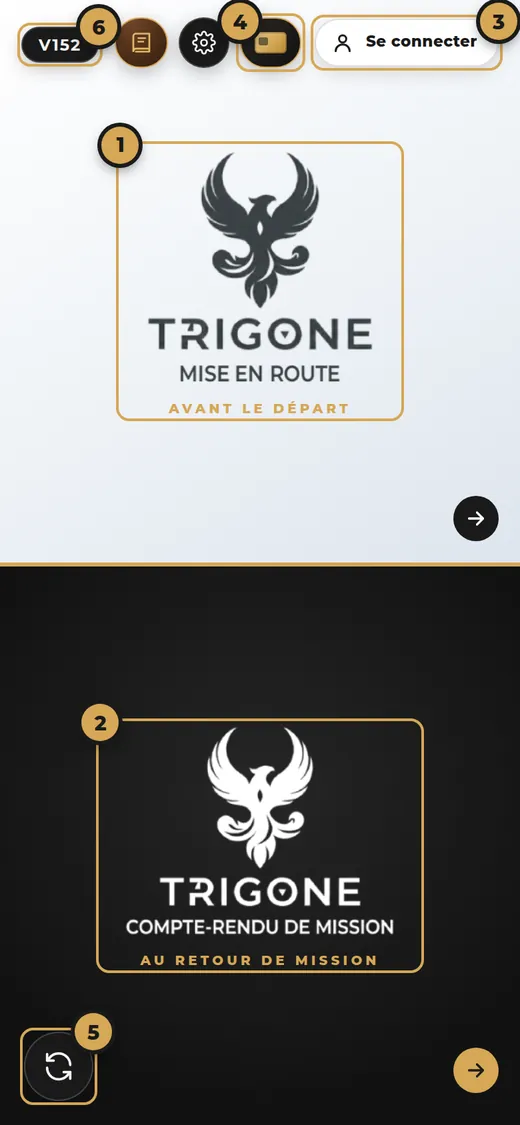
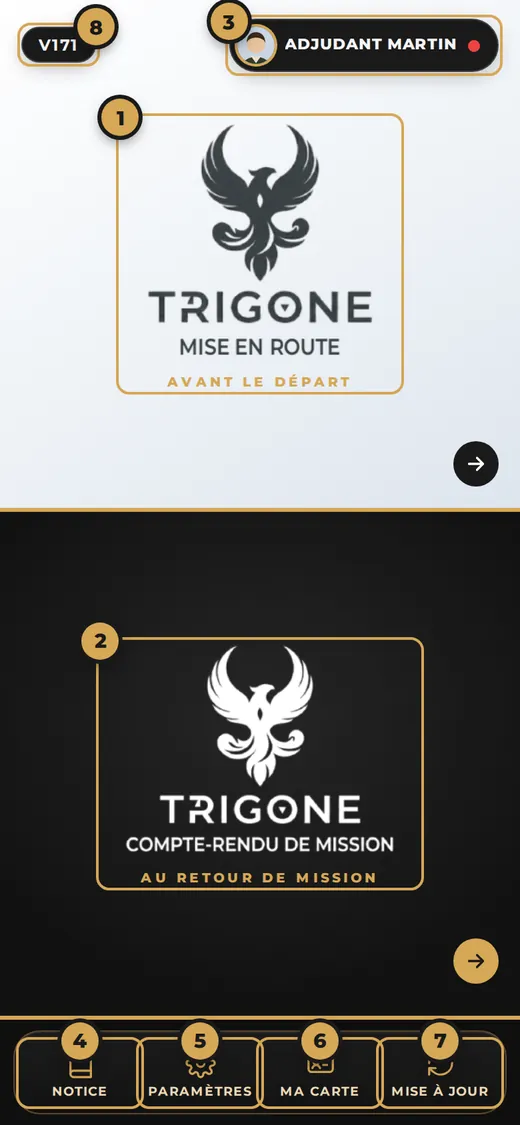
V172 : notice à jour (barre du bas, photo, hors réseau, médailles, relance) et légende des captures (#234)
Claude-Session: https://claude.ai/code/session_01NStkfCttCkWn8HaycQvLWX

diff --git a/notice/notice.js b/notice/notice.js
@@ -4,9 +4,10 @@
 // appli avec des personnages fictifs (notice/img), repères dorés ① ② ③ repris dans le texte.
 // {B} : chemin de la racine de TRIGONE (« ../ » depuis Compte-rendu).
 (function() {
-    var VERSION = 171;
+    var VERSION = 172;
     // Capture : un bouton, pour que le toucher l'agrandisse au lieu de tourner la page.
-    function img(n) { return '<button type="button" class="n-capt" data-zoom="{B}notice/img/' + n + '.webp" aria-label="Agrandir la capture"><img src="{B}notice/img/' + n + '.webp" alt=""><i>⤢</i></button>'; }
+    var TEL_SVG = '<svg viewBox="0 0 24 24" aria-hidden="true"><rect x="6.5" y="2.5" width="11" height="19" rx="2.5"/><path d="M11 18.5h2"/></svg>';
+    function img(n) { return '<button type="button" class="n-capt" data-zoom="{B}notice/img/' + n + '.webp" aria-label="Agrandir la capture"><img src="{B}notice/img/' + n + '.webp" alt=""><i>⤢</i><span class="n-leg">' + TEL_SVG + (n === 'c3-carte-grand' ? 'Téléphone à l\'horizontale · Android / iPhone' : 'Téléphone · Android / iPhone') + '</span></button>'; }
     function r(n) { return '<span class="n-r">' + n + '</span>'; }
     function et(l) { return '<ol class="n-et">' + l.map(function(x) { return '<li>' + x + '</li>'; }).join('') + '</ol>'; }
     function savoir(t) { return '<div class="n-enc n-savoir"><b>À SAVOIR</b>' + t + '</div>'; }
@@ -56,11 +57,11 @@
         '<h5>Sur PC (Chrome ou Edge)</h5>' + et(['Ouvrez l\'adresse, puis cliquez sur l\'icône <b>Installer</b> à droite de la barre d\'adresse.']) +
         astuce('Paramètres › Aide › <b>Partager TRIGONE</b> affiche un QR code : un collègue le scanne pour installer TRIGONE à son tour.'), 'inst'));
     ajouter(page('L\'écran d\'accueil', duo('01-choix', et([r(1) + ' <b>Mise en route</b> : toucher pour faire une demande avant le départ.', r(2) + ' <b>Compte-rendu de mission</b> : toucher pour démarrer ou reprendre une mission.',
-        r(3) + ' <b>Mon compte</b> : se connecter, Paramètres, se déconnecter.', r(4) + ' <b>Ma carte TRIGONE</b> : accès direct à votre carte. À côté : la <b>roue ⚙</b> (Paramètres) et le bouton <b>Notice</b> (ce livret).', r(5) + ' <b>Mise à jour</b> : vérifier qu\'une nouvelle version est disponible.', r(6) + ' <b>Numéro de version</b> de TRIGONE.'])) +
-        savoir('Un assistant Chorus DT voit en plus un 3<sup>e</sup> espace, <b>ASSIST CHORUS-DT</b> (chapitre 10).'), 'inst'));
+        r(3) + ' <b>Mon compte</b> : votre <b>photo</b> (celle de Ma carte, sinon vos initiales) ; se connecter, Paramètres, se déconnecter.', 'Barre du bas : ' + r(4) + ' <b>Notice</b> (ce livret), ' + r(5) + ' <b>Paramètres</b>, ' + r(6) + ' <b>Ma carte</b>, ' + r(7) + ' <b>Mise à jour</b>.', r(8) + ' <b>Numéro de version</b> de TRIGONE.'])) +
+        savoir('Sur un grand écran tactile (tablette, pliable ouvert), la barre a un 5<sup>e</sup> bouton : <b>Affichage PC</b>. Sur PC, ces boutons sont en haut à droite. Un assistant Chorus DT voit en plus un 3<sup>e</sup> espace, <b>ASSIST CHORUS-DT</b> (chapitre 10).'), 'inst'));
     ajouter(page('Mises à jour, thème et PC', '<h5>Mises à jour</h5><p>TRIGONE se met à jour <b>tout seul</b> à l\'ouverture. Une notification « Nouveautés » présente les changements. Le bouton ↻ de l\'écran d\'accueil force la vérification.</p>' +
         '<h5>Clair ou sombre</h5><p>Le bouton <b>☾ / ☀</b> en haut à droite des applis passe du thème clair au thème sombre.</p>' +
-        '<h5>Sur PC</h5><p>Sur un ordinateur, TRIGONE s\'affiche en grand : menu à gauche, formulaires en colonnes. Sur une tablette ou un téléphone pliant ouvert, le bouton <b>écran</b> (à côté du compte) bascule l\'affichage PC.</p>' +
+        '<h5>Sur PC</h5><p>Sur un ordinateur, TRIGONE s\'affiche en grand : menu à gauche, formulaires en colonnes. Sur une tablette ou un téléphone pliant ouvert, le bouton <b>Affichage PC</b> de la barre du bas (page de garde et accueil des applis) bascule l\'affichage PC ; le même bouton ramène l\'affichage téléphone.</p>' +
         '<h5>Démonstration</h5><p>Chaque appli propose <b>« Voir une démonstration »</b> : une visite guidée, sans rien envoyer.</p>' +
         attention('Ouvrez toujours TRIGONE depuis l\'<b>icône installée</b> : vos données sont rangées dans l\'appli de ce téléphone, pas dans un onglet du navigateur.'), 'inst'));
 
@@ -95,14 +96,14 @@
     // ---------- 5. Paramètres ----------
     ajouter(chapitre(5, 'Les Paramètres', 'Toutes les options de TRIGONE sont rangées dans une seule page, par rubriques : Compte, Notifications, réglages de l\'appli, Données et Aide.',
         ['Ouvrir les Paramètres', 'Les rubriques', 'Montre connectée'], 'param'));
-    ajouter(page('Ouvrir les Paramètres', duo('10-parametres-compte', et(['Touchez la <b>pastille de votre compte</b> (vos initiales) puis <b>Paramètres</b>.', r(1) + ' Choisissez une <b>rubrique</b> en haut.', '<b>Compte</b> : ' + r(2) + ' Ma carte TRIGONE, ' + r(3) + ' Mon profil, ' + r(4) + ' Mes rôles, Absence, Ajouter un appareil.', '<b>Notifications</b> : activer, couper sur cet appareil, tester, montre connectée.'])), 'param'));
+    ajouter(page('Ouvrir les Paramètres', duo('10-parametres-compte', et(['Touchez la <b>pastille de votre compte</b> (votre photo ou vos initiales) puis <b>Paramètres</b> (ou le bouton <b>Paramètres</b> de la barre du bas).', r(1) + ' Choisissez une <b>rubrique</b> en haut.', '<b>Compte</b> : ' + r(2) + ' Ma carte TRIGONE, ' + r(3) + ' Mon profil, ' + r(4) + ' Mes rôles, Absence, Ajouter un appareil.', '<b>Notifications</b> : activer, couper sur cet appareil, tester, montre connectée.'])), 'param'));
     ajouter(page('Les autres rubriques', duo('11-parametres-donnees', et(['<b>Compte-rendu</b> (dans l\'appli Compte-rendu) : réglages du compte-rendu (rappels, envoi, barèmes, étranger).', '<b>Données</b> : sauvegarde automatique, restaurer depuis le compte, sauvegarder ou restaurer un fichier, se déconnecter et effacer, réinitialiser TRIGONE.', '<b>Aide</b> : cette notice, Références, Mise à jour, Découvrir TRIGONE, Partager TRIGONE, <b>Signaler un problème</b>.', 'Accès direct : la <b>roue ⚙</b> de l\'écran d\'accueil ouvre les Paramètres ; le bouton <b>Notice</b> (livre) ouvre cette notice.'])) +
         attention('« Réinitialiser TRIGONE » et « Se déconnecter et effacer » suppriment <b>toutes</b> les données de l\'appareil. Faites d\'abord une sauvegarde.'), 'param'));
     ajouter(page('Montre connectée', duo('82-montre', et(['Paramètres › Notifications › <b>Montre connectée</b> (pastille verte = prête, rouge = pas prête).', 'Activez les notifications de TRIGONE sur le téléphone.', 'Dans l\'appli de la montre (ex. Galaxy Wearable › Notifications), autorisez <b>Chrome</b> et TRIGONE.', 'Pendant une mission, la notification « Mission en cours » arrive sur la montre avec le bouton de l\'étape suivante : <b>un appui horodate</b>, même sans réseau.'])), 'param'));
 
     // ---------- 6. Carte TRIGONE ----------
     ajouter(chapitre(6, 'Ma carte TRIGONE', 'Votre carte d\'identité TRIGONE, au format carte bancaire, remplie avec Mon profil. Son QR code permet aux autres comptes TRIGONE de vous ajouter en un geste.',
-        ['Ouvrir, retourner, afficher en grand', 'La photo', 'Le QR code et ses usages', 'Carte perdue ou volée', 'Partager sa photo, onglet Participants'], 'carte'));
+        ['Ouvrir, retourner, afficher en grand', 'La photo', 'Le QR code et ses usages', 'Carte perdue ou volée', 'Partager sa photo, onglet Participants', 'Votre photo dans TRIGONE'], 'carte'));
     ajouter(page('La carte', duo('c1-carte-recto', et(['Ouvrez la carte : bouton doré <b>« Ma carte »</b> de l\'écran d\'accueil, <b>appui long</b> sur l\'icône TRIGONE › Ma carte, ou Paramètres › Compte.', '<b>Recto</b> : photo, nom, grade, NID, unité, nombre de missions, hologramme qui bouge avec le téléphone.', '<b>Touchez la carte</b> pour la retourner.', '<b>Changer la photo</b> : appareil photo ou galerie, puis cadrez au doigt. La photo reste sur le téléphone.'])) +
         savoir('Le liseré évolue avec vos comptes-rendus envoyés : <b>bronze</b> (1), <b>argent</b> (10), <b>or</b> (20).'), 'carte'));
     ajouter(page('Le verso et le QR code', duo('c2-carte-verso', et(['<b>Verso</b> : QR code, rôles, « Compte vérifié depuis le… », signature.', '<b>Afficher en grand</b> : le téléphone passe à l\'horizontale et devient la carte (écran maintenu allumé). Touchez pour retourner, ✕ pour fermer.', '<b>Partager</b> : la carte (recto + verso) en image.'])) +
@@ -112,9 +113,11 @@
     ajouter(page('Partager sa photo', duo('c7-carte-partage', et([r(1) + ' Ma carte › case <b>« Partager ma photo avec les valideurs et l\'assistant Chorus DT »</b>.', 'Votre photo apparaît alors dans l\'onglet <b>Participants</b> de vos demandes : VALIDEUR 1 et 2, assistants Chorus DT, chef d\'une mission collective, et <b>vos autres appareils</b> (PC).', 'Elle est <b>chiffrée sur votre téléphone</b> : le serveur ne garde qu\'un bloc illisible. Décochez : elle est retirée.', r(2) + ' Votre <b>adresse des justificatifs</b> (prénom.nom@trigone-app.com), avec <b>Copier</b>.'])) +
         savoir('Sans partage, votre carte s\'affiche avec vos <b>initiales</b> ; elle reste « vérifiée ».'), 'carte'));
     ajouter(page('L\'onglet Participants', duo('c8-participants', et(['Bouton <b>👥 Participants</b> : Espace valideur, contrôle des demandes et <b>registre</b> (Chorus DT), <b>Bibliothèque</b> (chef de mission).', r(1) + ' Une <b>carte TRIGONE par personne</b> : chef de mission, puis les participants.', r(2) + ' <b>✔ Carte TRIGONE vérifiée</b> par le serveur, photo chiffrée si partagée. <b>✖ Pas de carte vérifiée</b> : identité à contrôler.', r(3) + ' Onglet <b>Demande</b> : objet, dates, destination, code FD. Touchez une carte : <b>en grand</b>.'])), 'carte'));
+    ajouter(page('Votre photo dans TRIGONE', duo('c9-photo-compte', et(['La photo de Ma carte apparaît aussi :', r(1) + ' dans la <b>pastille de votre compte</b>, en haut de l\'écran, à la place de vos initiales ;', r(2) + ' en plus grand dans le <b>menu du compte</b> et en tête des <b>Paramètres</b>.', 'Changez ou retirez la photo dans Ma carte : la pastille suit aussitôt. Sans photo, vos initiales restent.'])) +
+        savoir('La photo reste <b>sur l\'appareil</b> : elle n\'est envoyée qu\'aux personnes autorisées de vos missions, si vous avez coché « Partager ma photo ».'), 'carte'));
     ajouter(chapitre(7, 'Faire une demande de mise en route', 'La demande d\'ordre de mise en route (DOMR) se remplit en 5 onglets. Chaque onglet est vérifié avant de passer au suivant : une demande complète est une demande validée plus vite.',
         ['Nouvelle demande : identité et personnes', 'Trajet aller et trajet retour', 'Alimentation, hébergement, réservation', 'Imputation, avance et pièces jointes'], 'mer'));
-    ajouter(page('Nouvelle demande', duo('20-mer-accueil', et(['Ouvrez <b>Mise en route</b> depuis l\'écran d\'accueil.', r(1) + ' Touchez <b>Nouvelle demande</b>.', r(2) + ' <b>Boîte de réception</b> : refus, questions, missions collectives reçues (la pastille rouge compte ce qui est à traiter).', r(3) + ' <b>Biblio</b> : le suivi de vos demandes envoyées. ' + r(4) + ' <b>Docs</b> : vos demandes à envoyer.'])), 'mer'));
+    ajouter(page('Nouvelle demande', duo('20-mer-accueil', et(['Ouvrez <b>Mise en route</b> depuis l\'écran d\'accueil.', r(1) + ' Touchez <b>Nouvelle demande</b>.', r(2) + ' <b>Boîte de réception</b> : refus, questions, missions collectives reçues (la pastille rouge compte ce qui est à traiter).', 'Barre du bas : ' + r(3) + ' <b>Biblio</b> (suivi de vos demandes envoyées), ' + r(4) + ' <b>Docs</b> (demandes à envoyer), ' + r(5) + ' <b>Ma carte</b>, ' + r(6) + ' <b>Notice</b>.', r(7) + ' Votre <b>compte</b> (photo).'])), 'mer'));
     ajouter(page('Onglet 1 — Identité', duo('21-demande-identite', et(['Les 5 onglets en haut : <b>Identité, Aller, Retour, Alim./Héb., Imputation</b>. Un ✓ vert = onglet complet.', r(1) + ' Choisissez <b>Mission</b> ou <b>Formation / stage</b>.', r(2) + ' Saisissez l\'<b>objet</b> de la mission.', r(3) + ' <b>Personnel concerné</b> : votre identité est déjà remplie depuis Mon profil.'])), 'mer'));
     ajouter(page('Demande collective', duo('21b-demande-personnes', et(['Pour plusieurs personnes (une seule demande, un OMR collectif) :', r(1) + ' <b>Ajouter une personne</b> et la remplir,', r(2) + ' ou <b>Scanner des cartes TRIGONE</b> : chaque carte scannée ajoute la personne,', r(3) + ' ou <b>Importer une liste</b> Excel, Calc ou CSV (colonnes UNITÉ · CIE · GRADE · NOM · PRÉNOM · NID). « Télécharger le modèle » donne le tableau à remplir.', 'Touchez <b>Étape suivante</b>.'])) +
         savoir('Dans une demande collective, le demandeur est <b>chef de mission</b> : au retour, il envoie le compte-rendu prérempli à chaque participant.'), 'mer'));
@@ -151,12 +154,14 @@
 
     // ---------- 10. Assistant Chorus DT ----------
     ajouter(chapitre(10, 'Assistant Chorus DT', 'L\'assistant Chorus DT reçoit les demandes validées par les deux valideurs et les comptes-rendus de mission. Il tient le registre des OMR, commun à tous les assistants de l\'unité.',
-        ['Mon espace', 'Demandes validées : contrôle et PDF', 'Comptes-rendus reçus', 'Registre des OMR', 'Registre : collectif, international, montants'], 'chorus'));
+        ['Mon espace', 'Demandes validées : contrôle et PDF', 'Comptes-rendus reçus', 'Registre des OMR', 'Relancer les retards', 'Registre : collectif, international, montants'], 'chorus'));
     ajouter(page('Mon espace', duo('40-chorus-choix', et(['Avec le rôle ASSIST CHORUS DT, l\'écran d\'accueil montre un 3<sup>e</sup> espace : ' + r(1) + ' <b>ASSIST CHORUS-DT</b>.', '<b>Mon espace</b> indique le nombre de demandes validées à traiter et de comptes-rendus reçus.', 'Touchez le logo pour ouvrir l\'espace.'])), 'chorus'));
     ajouter(page('L\'espace Chorus DT', duo('41-chorus-espace', et(['<b>Registre des OMR</b> : toutes les missions de l\'unité et où elles en sont.', r(1) + ' <b>Demandes de mise en route</b> : validées par les deux valideurs.', '<b>Comptes-rendus de mission</b> : envoyés au retour de mission.', '<b>Relever maintenant</b> : chercher tout de suite les nouveaux envois.'])), 'chorus'));
     ajouter(page('Traiter une demande', duo('42-chorus-dossier', et(['<b>Aperçu</b> : relire la demande.', '<b>Télécharger le PDF</b> : TRIGONE vérifie d\'abord les signatures et les pièces jointes, puis produit le PDF final (demande signée + NDS / DAF).', '<b>Contrôle détaillé</b> : le détail de la vérification.', '<b>Question</b> : demander une précision au missionnaire.', 'Créez l\'ordre de mission dans Chorus DT, puis marquez la demande <b>Traitée</b> : le missionnaire est prévenu.'])), 'chorus'));
     ajouter(page('Registre des OMR', duo('43-registre', et(['Un seul tableau : <b>toutes les missions</b> de l\'unité, dans l\'ordre des n° OMR, avec des filtres d\'étape (À venir, En cours, CR attendu, En retard, CR rendus).', r(1) + ' <b>⛶ Plein écran</b> : le tableau sur tout l\'écran.', r(2) + ' <b>Rechercher</b> (n° OMR, objet, nom, code FD), codes FD <b>de votre unité</b> ou non, <b>période</b>. Code FD <b style="color:#15803d">vert</b> : votre unité ; <b style="color:#a16207">jaune</b> : une autre.', r(3) + ' La <b>frise</b> : demande validée → départ → sur site → retour → <b>CR rendu</b>, avec les <b>heures réelles</b> quand le missionnaire horodate dans Compte-rendu (sinon, les dates prévues).', r(4) + ' <b>Relancer pour le CR</b> : un rappel dans la boîte du missionnaire.'])) +
         savoir('Le registre est <b>commun à tous les assistants Chorus DT de l\'unité</b> et se met à jour <b>tout seul toutes les 30 s</b> : chacun voit la même chose, avec « reçu par ».'), 'chorus'));
+    ajouter(page('Relancer les retards', duo('45-relance-groupee', et(['En haut du registre, dès qu\'un compte-rendu est en retard : ' + r(1) + ' le nombre de <b>comptes-rendus en retard</b> (et ceux déjà relancés aujourd\'hui).', r(2) + ' <b>Relancer les N en retard</b> : une seule confirmation, chacun reçoit son rappel dans sa boîte TRIGONE, avec une notification.', 'Ceux relancés depuis moins de 24 h sont sautés ; « Tous relancés » quand il n\'y a plus personne à relancer.'])) +
+        savoir('<b>Un registre par régiment</b> : chaque unité (celle de Mon profil) a son propre registre et sa propre numérotation OMR. Les assistants d\'un autre régiment ne voient pas le vôtre.'), 'chorus'));
     ajouter(page('Registre : collectif, international, montants', duo('44-registre-collectif', et(['À côté du n° OMR : <b>INDIVIDUEL</b>, <b>COLLECTIF · n</b> et ' + r(1) + ' <b>🌍 INTERNATIONAL</b> avec le pays.', r(2) + ' En direct : <b>départ, arrivée sur site, retour</b> à l\'heure près, dès que le missionnaire appuie dans Compte-rendu (« Sur site depuis… », « Rentré le… »).', r(3) + ' Mission collective : le <b>personnel</b>, un nom par ligne.', r(4) + ' <b>✏ Corriger les montants</b> : la correction vaut pour tous les assistants ; montant corrigé en doré, total recalculé.', 'En bas : <b>total par rubrique</b> (repas, hébergement, transports, IK…) et <b>PDF de cette liste</b> (filtres compris).'])) +
         astuce('« Revenir aux montants du CR » annule une correction. Le compte-rendu reçu, lui, n\'est jamais modifié.'), 'chorus'));
     ajouter(page('Comptes-rendus reçus', duo('77-registre-cr', et(['Le compte-rendu arrive dans <b>Comptes-rendus de mission</b>, avec ses justificatifs.', '<b>PDF complet</b> : le compte-rendu et tous ses justificatifs à la suite, en un seul PDF.', 'Dans le registre, la ligne passe à <b>« Validé — CR rendu »</b> (frise en vert), avec repas, hébergement, transports, IK et total.', 'Marquez-le <b>Traité</b> : le missionnaire est prévenu.'])), 'chorus'));
@@ -164,7 +169,7 @@
     // ---------- 11. Compte-rendu ----------
     ajouter(chapitre(11, 'Le compte-rendu de mission', 'TRIGONE Compte-rendu accompagne la mission : vous appuyez au départ, à l\'arrivée sur site, au départ du site et au retour. Les frais sont calculés, le compte-rendu part avec ses justificatifs en un seul envoi.',
         ['Partir d\'une mise en route', 'Départ mission', 'Horodatages pendant la mission', 'Frais, récapitulatif et envoi', 'Justificatifs par mail'], 'cr'));
-    ajouter(page('Commencer', duo('60-cr-accueil', et([r(1) + ' <b>La mission commence ici</b> : mission sans mise en route.', r(2) + ' <b>À partir d\'une mise en route</b> : tout est repris de votre demande (conseillé).', r(3) + ' <b>Simuler une mission à venir</b> : estimer les frais.', r(4) + ' <b>Bibliothèque</b> : vos comptes-rendus. ' + r(5) + ' <b>Remboursement</b> : vos montants par mois.'])) +
+    ajouter(page('Commencer', duo('60-cr-accueil', et([r(1) + ' <b>La mission commence ici</b> : mission sans mise en route.', r(2) + ' <b>À partir d\'une mise en route</b> : tout est repris de votre demande (conseillé).', r(3) + ' <b>Simuler une mission à venir</b> : estimer les frais.', 'Barre du bas : ' + r(4) + ' <b>Biblio</b> (vos comptes-rendus), ' + r(5) + ' <b>Rembours.</b> (vos montants par mois), ' + r(6) + ' <b>Ma carte</b>, ' + r(7) + ' <b>Notice</b>.'])) +
         savoir('Le jour du départ, une notification « Départ en mission aujourd\'hui » ouvre directement le compte-rendu pré-rempli.'), 'cr'));
     ajouter(page('À partir d\'une mise en route', duo('61-cr-liste-mer', et(['Touchez <b>À partir d\'une mise en route</b>.', r(1) + ' Choisissez votre demande (envoyée le…, objet, dates).', '<b>« Mission pré-remplie »</b> : identité, libellé, lieux, transports, gares et horaires sont repris. Vérifiez, puis « Départ en mission » le jour J.', 'Le n° OMR suit dans le compte-rendu.'])), 'cr'));
     ajouter(page('Départ mission', duo('63-cr-depart-ident', et(['4 onglets : <b>1. Identification, 2. Trajet aller, 3. Trajet retour, 4. Top départ</b>.', '<b>Identification</b> : grade, nom, NID, compagnie, libellé, mission en France ou à l\'étranger, lieux de départ et de retour.', '<b>Mission collective (chef)</b> : à cocher si vous êtes chef de mission (chapitre 12).', '<b>Trajets</b> : mode de transport, destination, transport complémentaire.'])), 'cr'));
@@ -183,6 +188,7 @@
     ajouter(page('Les joindre au compte-rendu', duo('72-justif-cr', et(['Fenêtre <b>Envoyer le compte-rendu</b>, partie Justificatifs.', r(1) + ' Touchez <b>📥 Depuis ma boîte TRIGONE</b>.', r(2) + ' <b>Cochez</b> les factures et billets de la mission.', r(3) + ' <b>Joindre la sélection</b> : ils rejoignent la liste, puis partent avec le compte-rendu.', 'Après l\'envoi, ils passent en <b>« Rangés »</b> sur tous vos appareils.'])) +
         astuce('Réservez le train sur SNCF Connect avec votre adresse TRIGONE : le billet arrive tout seul, prêt à joindre.'), 'cr'));
     ajouter(page('Les distinctions', duo('78-medaille', et(['Chaque compte-rendu envoyé compte pour vos <b>distinctions TRIGONE</b> :', '<b>Bronze</b> au 1<sup>er</sup> compte-rendu, <b>Argent</b> au 10<sup>e</sup>, <b>Or</b> au 20<sup>e</sup>.', 'La médaille s\'affiche au-dessus du « Bonjour » sur l\'accueil, et le liseré de votre carte TRIGONE prend sa couleur.'])), 'cr'));
+    ajouter(page('Mes médailles', duo('79-mes-medailles', et(['Compte-rendu › pastille du compte › <b>Paramètres › Compte-rendu › Mes médailles</b> (ou toucher la médaille de l\'accueil).', 'Votre médaille, votre compteur, et le nombre de comptes-rendus de la Bibliothèque.', r(1) + ' <b>Recompter depuis ma Bibliothèque</b> : le compteur reprend ce nombre, médailles recalculées (une confirmation montre les deux chiffres).', r(2) + ' <b>Repartir à zéro</b> : efface le compteur et les médailles, rien d\'autre.'])), 'cr'));
 
     // ---------- 12. Mission collective ----------
     ajouter(chapitre(12, 'Mission collective', 'Une seule demande pour toute l\'équipe. Au retour, le chef de mission envoie le compte-rendu prérempli à chaque participant, qui le complète et l\'envoie. Le chef suit qui l\'a fait.',
@@ -202,12 +208,14 @@
 
     // ---------- 14. Données ----------
     ajouter(chapitre(14, 'Sauvegarder et retrouver ses données', 'Vos demandes, missions et réglages sont rangés sur votre appareil. La sauvegarde automatique les garde aussi, chiffrés, dans votre compte : un téléphone perdu ne fait rien perdre.',
-        ['Sauvegarde automatique et code de récupération', 'Sauvegarde dans un fichier', 'Nouveau téléphone'], 'donnees'));
+        ['Sauvegarde automatique et code de récupération', 'Sauvegarde dans un fichier', 'Nouveau téléphone', 'Hors réseau'], 'donnees'));
     ajouter(page('Sauvegarde automatique', duo('80-sauvegarde-auto', et(['Paramètres › Données › <b>Sauvegarde automatique</b> › <b>Activer</b>.', 'TRIGONE donne un <b>code de récupération</b> (20 caractères) : <b>notez-le</b> et gardez-le en lieu sûr.', 'Une copie <b>chiffrée sur votre téléphone</b> part au plus une fois par jour, seulement quand quelque chose a changé.', 'Nouveau téléphone : connectez-vous à votre compte, puis <b>Restaurer depuis mon compte</b> avec le code.'])) +
         attention('Code de récupération perdu = sauvegarde impossible à ouvrir, <b>pour tout le monde</b> (personne ne peut le retrouver).'), 'donnees'));
     ajouter(page('Fichier et nouveau téléphone', '<h5>Sauvegarde dans un fichier</h5>' + et(['Paramètres › Données › <b>Sauvegarder dans un fichier</b> : un fichier pour tout TRIGONE, à ranger où vous voulez.', '<b>Restaurer depuis un fichier</b> : sur cet appareil ou un nouveau.']) +
         '<h5>Changer de téléphone</h5>' + et(['<b>Le plus simple</b> : sur l\'ancien, Ajouter un appareil (code de liaison), puis sur le nouveau « J\'ai déjà TRIGONE sur un autre appareil ».', '<b>Ancien téléphone perdu</b> : connexion au compte sur le nouveau, puis Restaurer depuis mon compte (code de récupération).']) +
         '<h5>Sans réseau</h5><p>TRIGONE s\'ouvre et fonctionne sans réseau. Les envois faits sans réseau partent tout seuls au retour du réseau (Paramètres › Données › <b>Envois en attente</b>).</p>', 'donnees'));
+
+    ajouter(page('Hors réseau', duo('a1-hors-reseau', et(['Sans réseau, une pastille ' + r(1) + ' <b>Hors réseau</b> apparaît en haut de l\'écran (avec le nombre d\'envois en attente).', 'Touchez-la : tout est <b>gardé sur l\'appareil</b> (horodatages, comptes-rendus, demandes) et <b>part tout seul</b> au retour du réseau.', 'Au retour du réseau : « <b>Réseau revenu</b> », la pastille disparaît.'])), 'donnees'));
 
     // ---------- 15. Questions fréquentes ----------
     ajouter(chapitre(15, 'Questions fréquentes', 'Les situations les plus courantes et leur solution.', ['Connexion et code', 'Envois et destinataires', 'Notifications', 'Signaler un problème'], 'faq'));
@@ -336,6 +344,8 @@
         '.n-duo { display: flex; gap: 12px; align-items: flex-start; margin-bottom: 8px; }' +
         '.n-capt { position: relative; width: 43%; flex-shrink: 0; padding: 0; border-radius: 10px; border: 1px solid #d9ccb0; box-shadow: 0 6px 16px rgba(0,0,0,.18); background: #fff; overflow: hidden; cursor: zoom-in; line-height: 0; }' +
         '.n-capt img { width: 100%; display: block; } .n-capt i { position: absolute; right: 4px; bottom: 4px; width: 18px; height: 18px; border-radius: 50%; background: rgba(29,26,20,.8); color: #e2b866; font: 700 11px/18px sans-serif; font-style: normal; text-align: center; }' +
+        '.n-leg { display: flex; align-items: center; justify-content: center; gap: 3px; padding: 4px 2px 5px; background: #f6efe0; border-top: 1px solid #e3d6b8; color: #7a6233; font: 700 7.2px/1.2 Montserrat, sans-serif; letter-spacing: 0; white-space: nowrap; }' +
+        '.n-leg svg { width: 9px; height: 9px; flex-shrink: 0; fill: none; stroke: currentColor; stroke-width: 2; stroke-linecap: round; } .n-capt .n-leg ~ i, .n-capt i { bottom: 22px; }' +
         '.haut .n-capt { width: 50%; } .haut .n-p { font-size: 11.4px; line-height: 1.5; } .haut .n-et li { margin-bottom: 8px; }' +
         '.n-p h3 { font: 400 22px Georgia, serif; margin: 6px 0 0; }' +
         '.N-ZOOM { position: absolute; inset: 0; z-index: 5; background: rgba(0,0,0,.92); display: flex; flex-direction: column; align-items: center; justify-content: center; gap: 10px; padding: 12px; cursor: zoom-out; }' +

diff --git a/cr/index.html b/cr/index.html
@@ -11,7 +11,7 @@
 <link rel="manifest" href="../manifest.json">
 <meta name="apple-mobile-web-app-title" content="TRIGONE">
 <meta name="application-name" content="TRIGONE">
-<script src="../jumelage.js?v=172"></script>
+<script src="../jumelage.js?v=173"></script>
 <link rel="icon" type="image/png" sizes="192x192" href="icon-192.png?v=3">
 <link rel="apple-touch-icon" href="apple-touch-icon.png?v=3">
 <link href="../fonts/montserrat.css" rel="stylesheet"><!-- police hébergée avec TRIGONE : identique hors ligne -->
@@ -11565,7 +11565,7 @@ function SET_UPDATE_SEEN_VERSION(cle, version) {
 // Numéro de version du code de CETTE appli. À augmenter à chaque publication, en même temps que
 // « appCodeVersion » dans updates-manifest.json : c'est ce qui permet à l'appli de savoir si elle est
 // déjà à jour (elle affiche alors les « Nouveautés ») ou en retard (elle demande la mise à jour).
-var APP_CODE_VERSION = 269;
+var APP_CODE_VERSION = 270;
 // Jumelage : numéro affiché « V1, V2… » ; APP_CODE_VERSION reste le compteur interne des mises à jour
 // (à augmenter avec appCodeVersion de cr/updates-manifest.json, sans jamais le faire redescendre).
 var APP_VERSION_AFFICHEE = APP_CODE_VERSION - 98;

diff --git a/index.html b/index.html
@@ -5,7 +5,7 @@
 <meta name="viewport" content="width=device-width, initial-scale=1, viewport-fit=cover">
 <title>TRIGONE — Mise en route</title>
 <link rel="manifest" href="manifest.json">
-<script src="jumelage.js?v=172"></script>
+<script src="jumelage.js?v=173"></script>
 <meta name="theme-color" content="#ecebe7">
 <link href="fonts/montserrat.css" rel="stylesheet"><!-- police hébergée avec TRIGONE : identique hors ligne -->
 <link rel="apple-touch-icon" href="apple-touch-icon.png?v=3">
@@ -1032,6 +1032,6 @@ body.dark-mode .MER-BASCULE-ROLE { background: rgba(255,255,255,0.08); } body.da
     </div>
   </div>
 </div>
-<script src="app.js?v=172"></script>
+<script src="app.js?v=173"></script>
 </body>
 </html>

diff --git a/jumelage.js b/jumelage.js
@@ -1121,7 +1121,7 @@
     // Dès l'ouverture (démarrage ou retour dans l'appli), TRIGONE vérifie s'il existe une publication plus récente
     // et se met à jour tout seul. Jamais au mauvais moment : uniquement sur l'accueil, sans fenêtre ouverte
     // (chaque appli le dit via JUMELAGE_PEUT_RECHARGER) ; sinon au prochain retour sur l'accueil.
-    var BUILD = 172, MAJ_DISPO = false, CLE_RECHARGE = 'trigone_recharge_build';
+    var BUILD = 173, MAJ_DISPO = false, CLE_RECHARGE = 'trigone_recharge_build';
     function peutRecharger() {
         if (document.visibilityState === 'hidden') return false;
         if (document.body && document.body.classList.contains('demo-active')) return false;

diff --git a/app.js b/app.js
@@ -1,7 +1,7 @@
 // ===================== TRIGONE MISE EN ROUTE — logique =====================
 var MER_VERSION = 1;          // version du format des fichiers .json échangés
 // Version du code de l'appli : à augmenter à chaque publication, avec « appCodeVersion » dans updates-manifest.json.
-var APP_CODE_VERSION = 219;
+var APP_CODE_VERSION = 220;
 // Numéro de version affiché (« V1 », « V2 »…) : repart de 1 au lancement de TRIGONE jumelé et suit ensuite chaque
 // publication. APP_CODE_VERSION reste le compteur interne des mises à jour (ne jamais le faire redescendre).
 var APP_VERSION_AFFICHEE = APP_CODE_VERSION - 48;

diff --git a/cr/sw.js b/cr/sw.js
@@ -1,6 +1,6 @@
 // Copie jumelée dans TRIGONE Mise en route (dossier cr/) : caches préfixés « trigone-cr- » ; ceux de
 // Mise en route (« trigone-mise-en-route- ») ne sont jamais effacés d'ici.
-const CACHE_NAME = 'trigone-cr-v561';
+const CACHE_NAME = 'trigone-cr-v562';
 const ASSETS = [
   './',
   './manifest.json',

diff --git a/sw.js b/sw.js
@@ -1,4 +1,4 @@
-const CACHE_NAME = 'trigone-mise-en-route-v226';
+const CACHE_NAME = 'trigone-mise-en-route-v227';
 const ASSETS = [
   './',
   './manifest.json',
